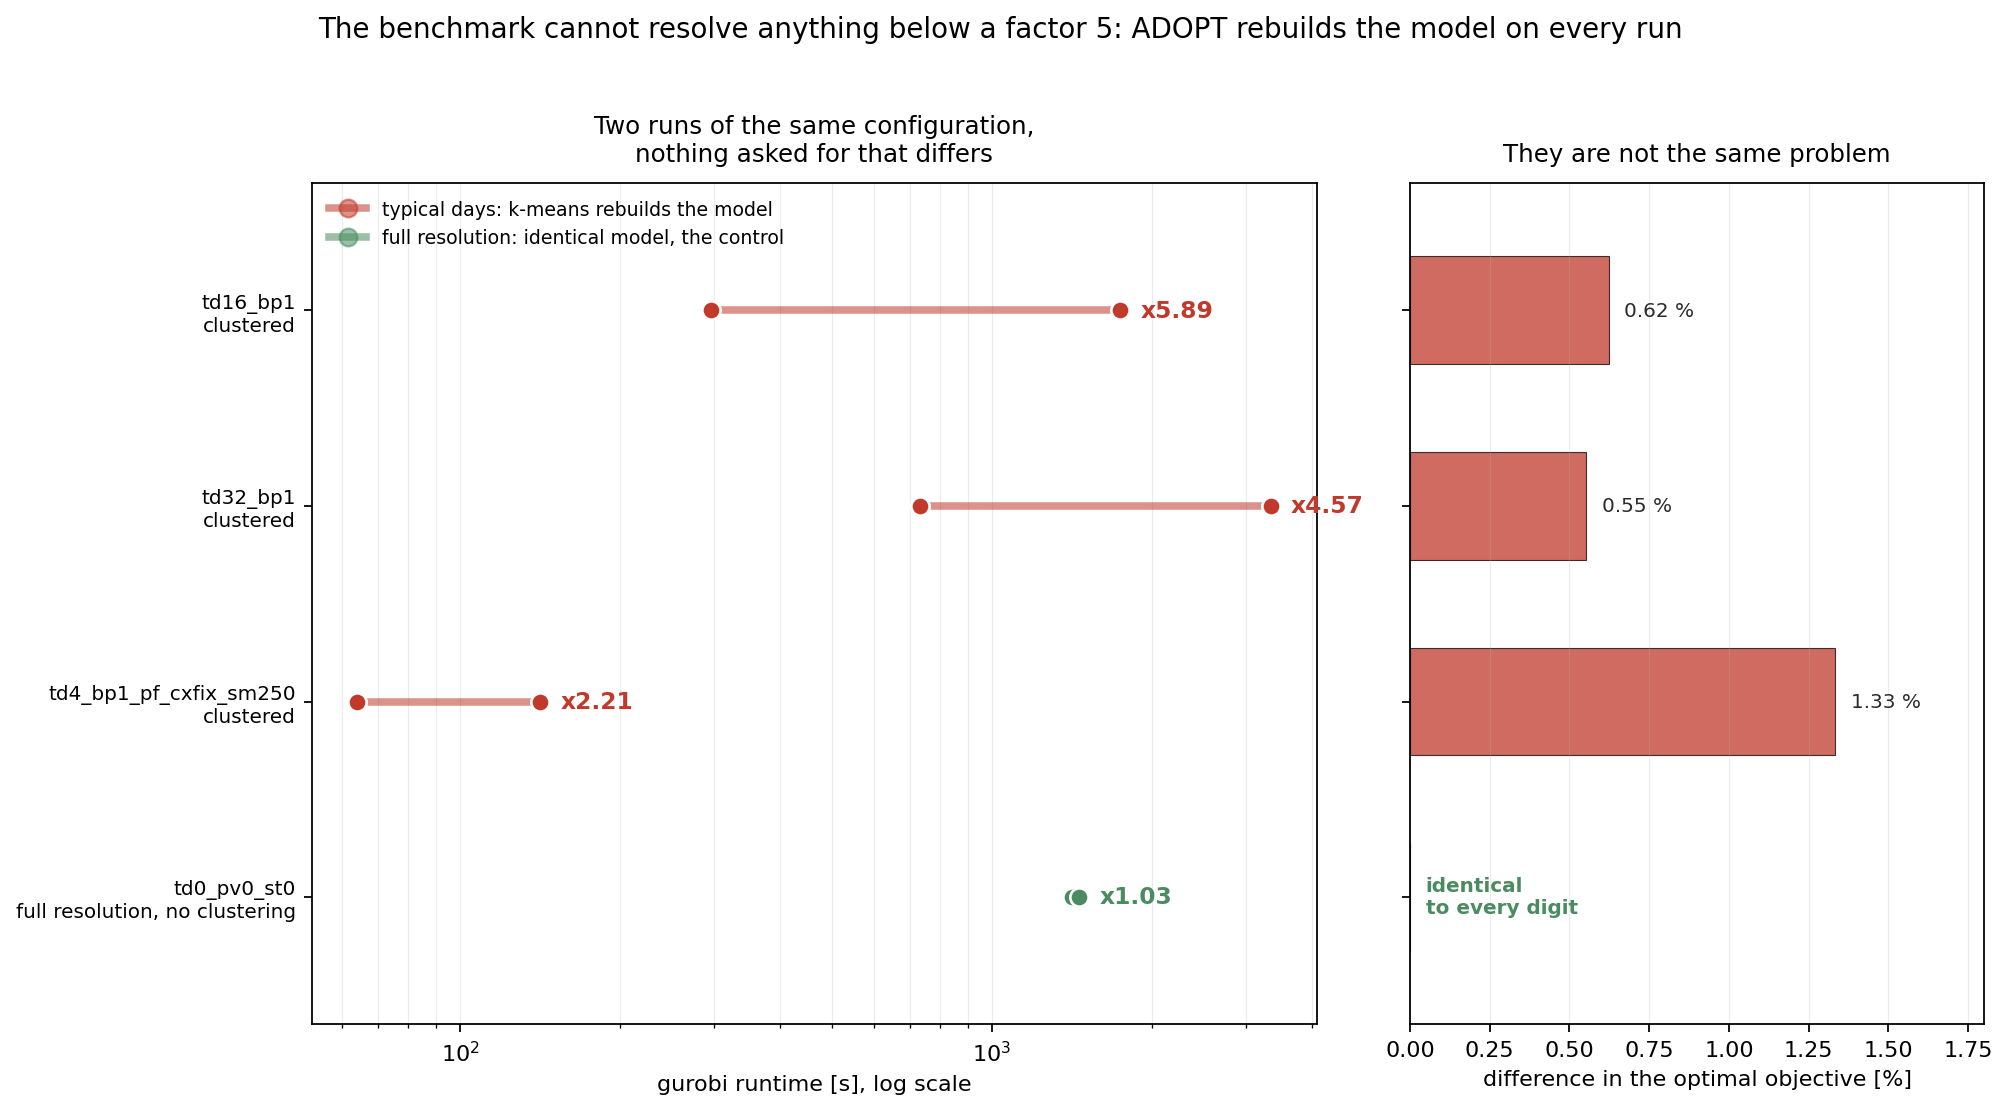
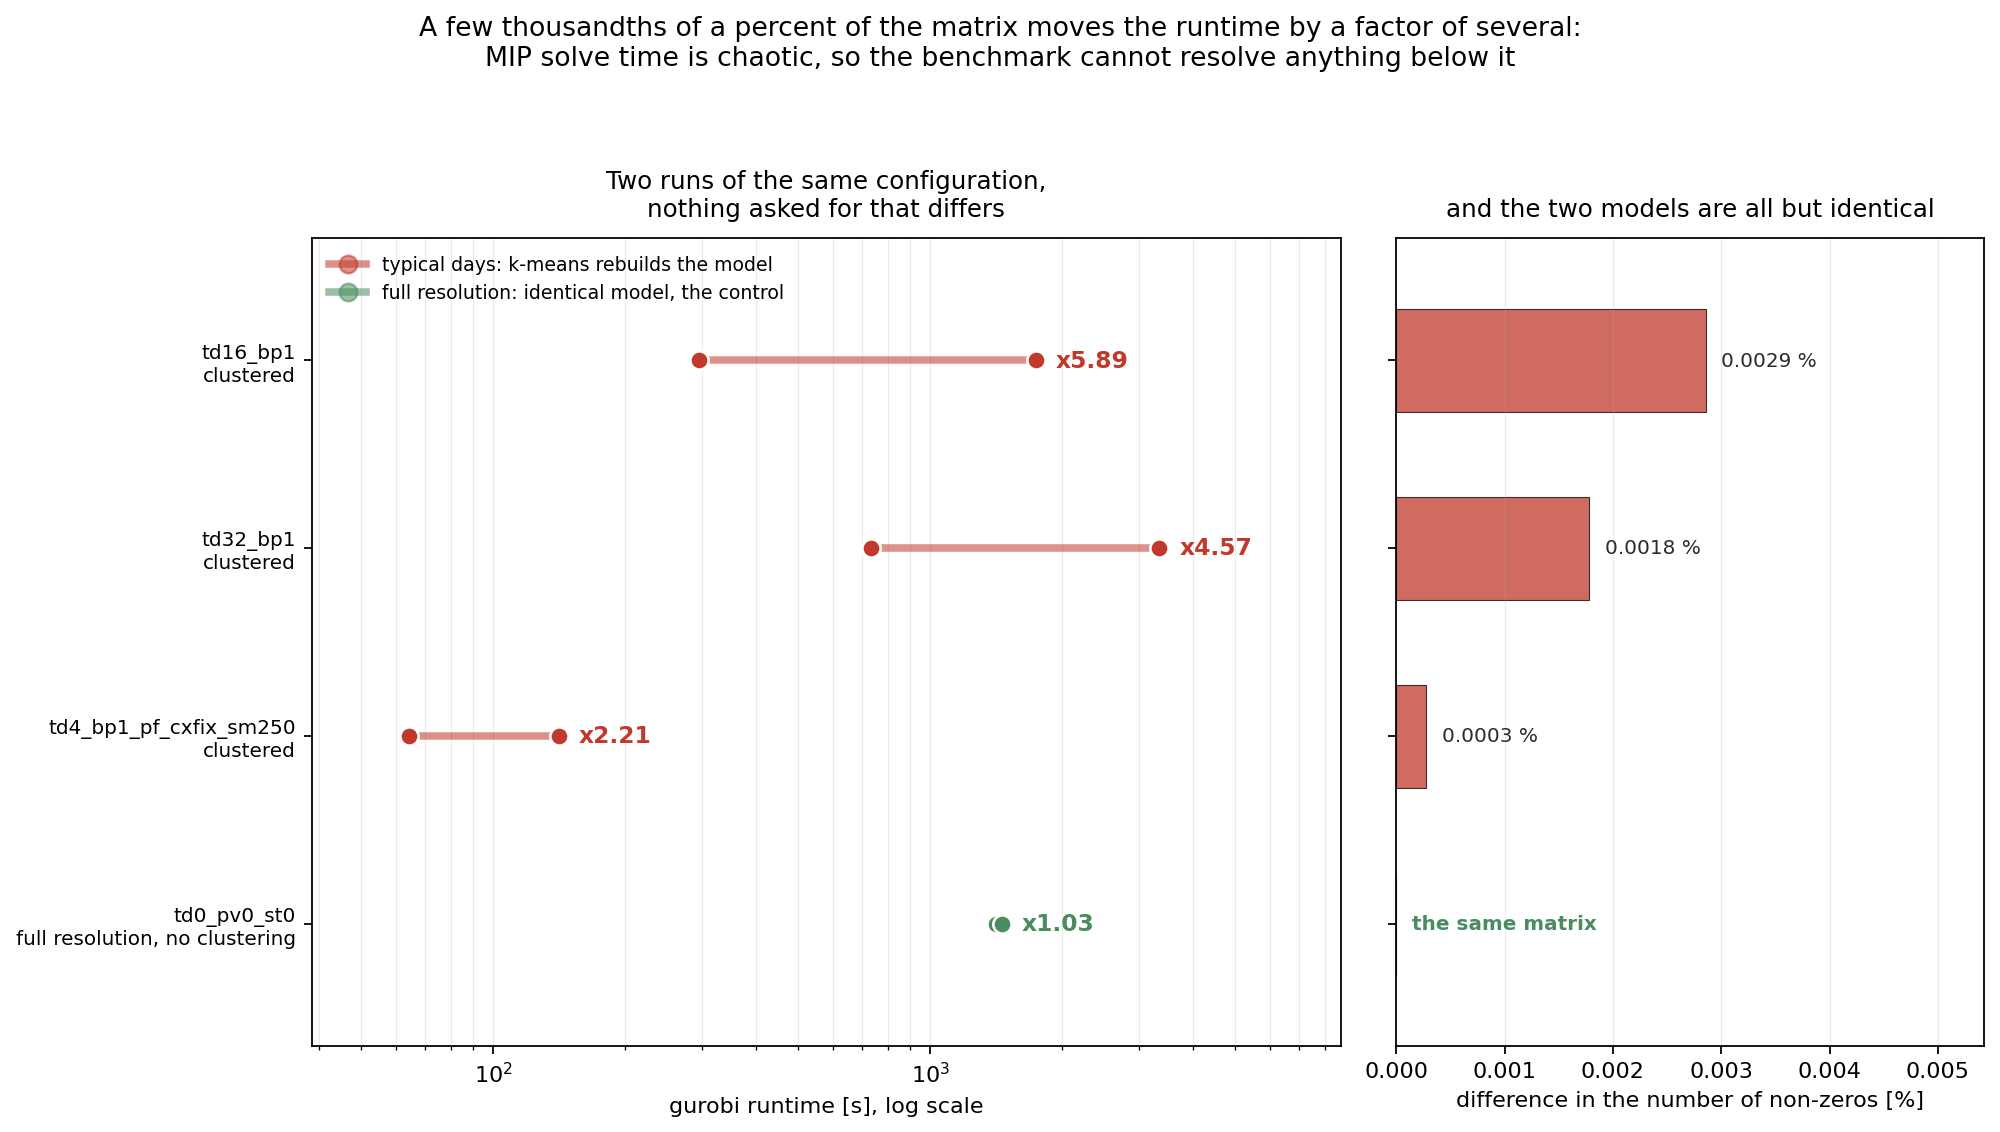
fix(benchmark): the repeated models are nearly identical, which is the point
The previous commit argued the two runs of a configuration were not the
same problem, and used the difference in the optimal objective as the
evidence. Both were wrong.

The runs stop at a 2 % MIP gap, so an objective a percent apart is what
two runs of one and the same problem are allowed to report. It proves
nothing. And the matrices differ by 0.0003 to 0.003 % of their non-zeros,
in one pair by a single non-zero, so the clustering is nearly stable
rather than wildly unstable.

That makes the finding stronger, not weaker: a perturbation of a few
thousandths of a percent moves the runtime by a factor of up to 5.9.
Branch and bound is chaotic under a perturbation of any size, so this is
ordinary MIP performance variability. Seeding the clustering removes this
particular perturbation, but changing the thread count is a perturbation
of the same kind, so it cannot make a thread comparison clean on its own.

The right-hand panel now shows how little the models differ instead of
the objective, and the figure says so.

diff --git a/case_studies_benchmark/plot_thread_ladder.py b/case_studies_benchmark/plot_thread_ladder.py
@@ -12,10 +12,19 @@ them apart:
 
 It answered none of them. Three configurations were run a second time at four
 threads with nothing asked for that differed, and the two runs came out up to a
-factor 5.9 apart, differing in the number of non-zeros and in the optimal
-objective. ADOPT rebuilds the model on every run, because the typical-day
-clustering is an unseeded k-means, so two runs of one configuration are two
-different problems and the ladder is measuring that rather than the threads.
+factor 5.9 apart.
+
+The cause is not that the models are far apart. The typical-day clustering is an
+unseeded k-means, so it does come out slightly differently each time, but only
+slightly: the two matrices differ by **0.0003 to 0.003 % of their non-zeros**,
+and in one of the three pairs by a single non-zero. That is enough. Branch and
+bound is chaotic under a perturbation of any size, so a coefficient that moves
+flips a branching decision and the tree diverges. This is ordinary MIP
+performance variability rather than anything peculiar to ADOPT.
+
+The objective is not used as evidence here. The runs stop at a 2 % MIP gap, so
+two of them can report objectives a percent apart while solving exactly the same
+problem.
 
 The control is in the same dataset: full resolution does no clustering, its
 models come out identical to every digit, and there the thread count moves the
@@ -304,10 +313,15 @@ def plot_noise(ladder: pd.DataFrame, dataset_file: Path, output: Path):
     """
     Draws the repeated runs against a run whose model is provably identical.
 
-    Runs with typical days rebuild the model with an unseeded k-means, so two
-    of them are not the same problem. Full resolution does no clustering, so
-    those runs are the control, and the difference between the two is the whole
-    finding.
+    Runs with typical days rebuild the model with an unseeded k-means. The
+    clustering is nearly stable, so the two models are all but the same, and
+    that is the point: a difference of a few thousandths of a percent in the
+    matrix moves the runtime by a factor of several. Full resolution does no
+    clustering at all and is the control.
+
+    The objective is deliberately not used as evidence. The runs stop at a 2 %
+    MIP gap, so two of them can report objectives that far apart while solving
+    exactly the same problem.
 
     :param ladder: DataFrame returned by load
     :param Path dataset_file: the dataset, re-read to reach the control runs
@@ -387,6 +401,7 @@ def plot_noise(ladder: pd.DataFrame, dataset_file: Path, output: Path):
         fontsize=11,
         pad=10,
     )
+    left.set_xlim(pairs["low"].min() * 0.6, pairs["high"].max() * 2.6)
     left.grid(alpha=0.25, axis="x", which="both", lw=0.5)
     left.legend(
         handles=[
@@ -421,7 +436,7 @@ def plot_noise(ladder: pd.DataFrame, dataset_file: Path, output: Path):
     right = axes[1]
     right.barh(
         positions,
-        pairs["objective_pct"],
+        pairs["model_pct"],
         height=0.55,
         color=[RED if pair.clustered else GREEN for pair in pairs.itertuples()],
         alpha=0.75,
@@ -429,10 +444,10 @@ def plot_noise(ladder: pd.DataFrame, dataset_file: Path, output: Path):
         linewidth=0.5,
     )
     for position, pair in enumerate(pairs.itertuples()):
-        identical = pair.objective_pct == 0
+        identical = pair.model_pct == 0
         right.annotate(
-            "identical\nto every digit" if identical else f"{pair.objective_pct:.2f} %",
-            xy=(pair.objective_pct, position),
+            "the same matrix" if identical else f"{pair.model_pct:.4f} %",
+            xy=(pair.model_pct, position),
             xytext=(7, 0),
             textcoords="offset points",
             va="center",
@@ -443,16 +458,17 @@ def plot_noise(ladder: pd.DataFrame, dataset_file: Path, output: Path):
     right.set_yticks(positions)
     right.set_yticklabels([])
     right.set_ylim(-0.65, len(pairs) - 0.35)
-    right.set_xlim(0, max(pairs["objective_pct"].max() * 1.35, 0.1))
-    right.set_xlabel("difference in the optimal objective [%]")
-    right.set_title("They are not the same problem", fontsize=11, pad=10)
+    right.set_xlim(0, max(pairs["model_pct"].max() * 1.9, 0.001))
+    right.set_xlabel("difference in the number of non-zeros [%]")
+    right.set_title("and the two models are all but identical", fontsize=11, pad=10)
     right.grid(alpha=0.25, axis="x", lw=0.5)
 
     figure.suptitle(
-        "The benchmark cannot resolve anything below a factor 5: "
-        "ADOPT rebuilds the model on every run",
-        fontsize=12.5,
-        y=1.02,
+        "A few thousandths of a percent of the matrix moves the runtime by a "
+        "factor of several:\nMIP solve time is chaotic, so the benchmark "
+        "cannot resolve anything below it",
+        fontsize=12,
+        y=1.04,
     )
     figure.tight_layout()
     figure.savefig(output, dpi=160, bbox_inches="tight")
@@ -473,11 +489,17 @@ def _pair(label: str, runs: pd.DataFrame, clustered: bool):
     high = ordered["gurobi_runtime_s"].iloc[-1]
     objectives = ordered["gurobi_objval"]
 
+    nonzeros = ordered["n_nnz"]
+
     return {
         "label": label.replace("four_node_", "").replace("_thr4", ""),
         "low": low,
         "high": high,
         "ratio": high / low,
+        # How far apart the two matrices are. The objective is not used: the
+        # runs stop at a 2 % MIP gap, so it can differ by that much on one and
+        # the same problem
+        "model_pct": 100 * (nonzeros.max() - nonzeros.min()) / nonzeros.min(),
         "objective_pct": 100
         * abs(objectives.max() - objectives.min())
         / abs(objectives.iloc[0]),
